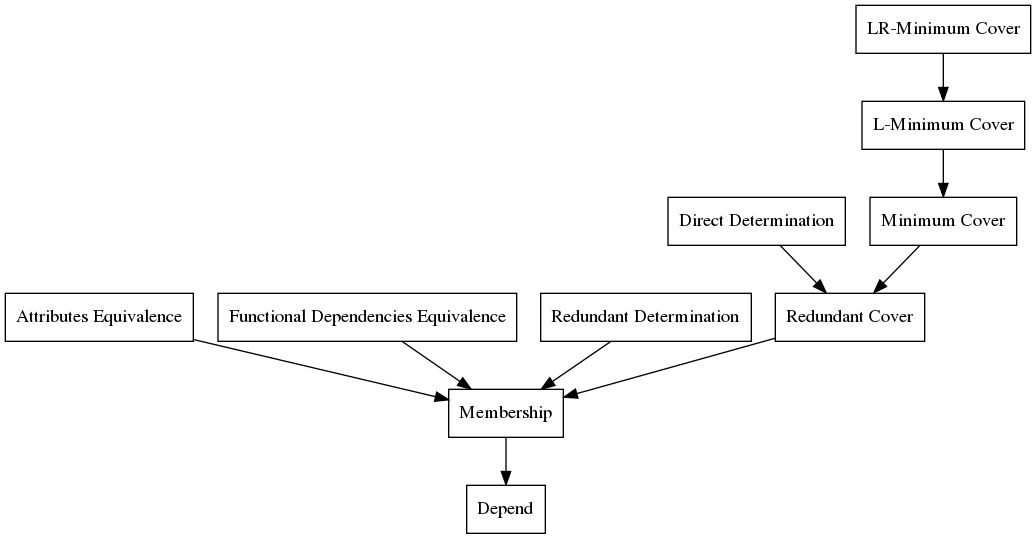
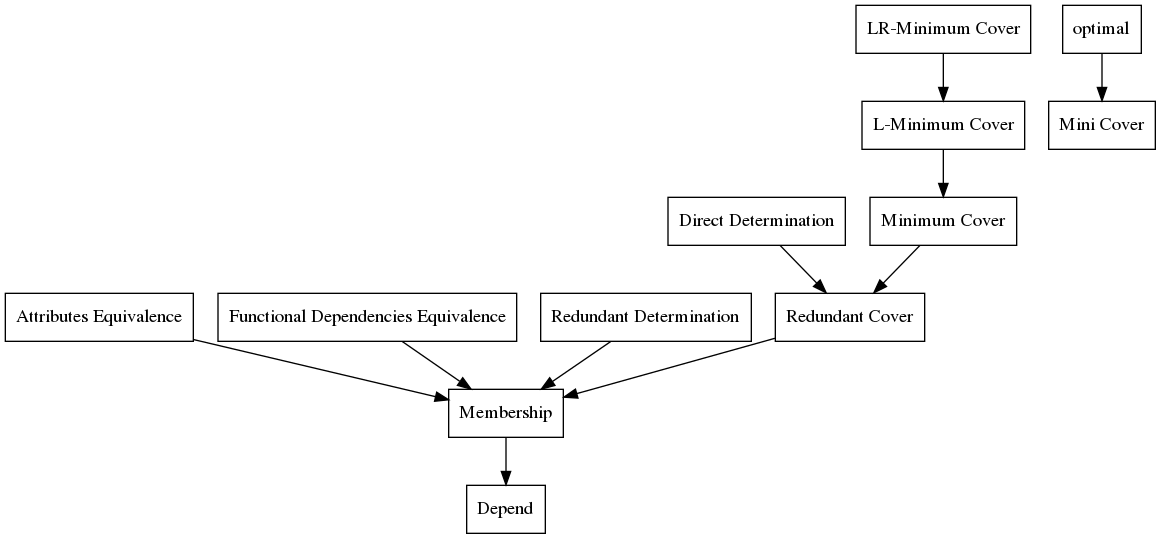
Edit some diagrams.

diff --git a/docs/fdc_8h_source.html b/docs/fdc_8h_source.html
@@ -99,7 +99,7 @@ $(document).ready(function(){initNavTree('fdc_8h_source.html','');});
 <div class="title">fdc.h</div>  </div>
 </div><!--header-->
 <div class="contents">
-<div class="fragment"><div class="line"><a name="l00001"></a><span class="lineno">    1</span>&#160;<span class="preprocessor">#include &lt;iostream&gt;</span></div><div class="line"><a name="l00002"></a><span class="lineno">    2</span>&#160;<span class="preprocessor">#include &lt;vector&gt;</span></div><div class="line"><a name="l00003"></a><span class="lineno">    3</span>&#160;</div><div class="line"><a name="l00004"></a><span class="lineno">    4</span>&#160;<span class="preprocessor">#ifndef __fdc_inc__</span></div><div class="line"><a name="l00005"></a><span class="lineno">    5</span>&#160;<span class="preprocessor">#define __fdc_inc__</span></div><div class="line"><a name="l00006"></a><span class="lineno">    6</span>&#160;</div><div class="line"><a name="l00007"></a><span class="lineno">    7</span>&#160;<span class="preprocessor">#define FDC_VERSION_MAJOR @FDC_VERSION_MAJOR @</span></div><div class="line"><a name="l00008"></a><span class="lineno">    8</span>&#160;<span class="preprocessor">#define FDC_VERSION_MINOR @FDC_VERSION_MINOR @</span></div><div class="line"><a name="l00009"></a><span class="lineno">    9</span>&#160;<span class="preprocessor">#define FDC_VERSION_PATCH @FDC_VERSION_PATCH @</span></div><div class="line"><a name="l00010"></a><span class="lineno">   10</span>&#160;</div><div class="line"><a name="l00015"></a><span class="lineno"><a class="line" href="namespacefdc.html">   15</a></span>&#160;<span class="keyword">namespace </span><a class="code" href="namespacefdc.html">fdc</a> {</div><div class="line"><a name="l00016"></a><span class="lineno">   16</span>&#160;</div><div class="line"><a name="l00018"></a><span class="lineno"><a class="line" href="namespacefdc.html#ad6ffb546640a8e9f1fc2bccaf2e06202">   18</a></span>&#160;<span class="keyword">typedef</span> <span class="keywordtype">int</span> <a class="code" href="namespacefdc.html#ad6ffb546640a8e9f1fc2bccaf2e06202">attr</a>;</div><div class="line"><a name="l00019"></a><span class="lineno">   19</span>&#160;</div><div class="line"><a name="l00021"></a><span class="lineno"><a class="line" href="namespacefdc.html#acc22b152d9d30c9641120f81ba5b39c9">   21</a></span>&#160;<span class="keyword">typedef</span> std::vector&lt;attr&gt; <a class="code" href="namespacefdc.html#acc22b152d9d30c9641120f81ba5b39c9">attrs</a>;</div><div class="line"><a name="l00022"></a><span class="lineno">   22</span>&#160;</div><div class="line"><a name="l00024"></a><span class="lineno"><a class="line" href="namespacefdc.html#aa9a82a6ea5967445729ae71e5e8065a2">   24</a></span>&#160;<span class="keyword">typedef</span> std::pair&lt;attrs, attrs&gt; <a class="code" href="namespacefdc.html#aa9a82a6ea5967445729ae71e5e8065a2">fd</a>;</div><div class="line"><a name="l00025"></a><span class="lineno">   25</span>&#160;</div><div class="line"><a name="l00027"></a><span class="lineno"><a class="line" href="namespacefdc.html#aa48d6653a52613809e7f775598b0bbcc">   27</a></span>&#160;<span class="keyword">typedef</span> std::vector&lt;fd&gt; <a class="code" href="namespacefdc.html#aa48d6653a52613809e7f775598b0bbcc">fds</a>;</div><div class="line"><a name="l00028"></a><span class="lineno">   28</span>&#160;</div><div class="line"><a name="l00042"></a><span class="lineno">   42</span>&#160;std::string <a class="code" href="group__IO.html#gafe224a98bd98ea3cf26dff6bdc8f7392">to_str</a>(<span class="keyword">const</span> attr &amp;x);</div><div class="line"><a name="l00043"></a><span class="lineno">   43</span>&#160;</div><div class="line"><a name="l00048"></a><span class="lineno">   48</span>&#160;std::string <a class="code" href="group__IO.html#gafe224a98bd98ea3cf26dff6bdc8f7392">to_str</a>(<span class="keyword">const</span> attrs &amp;X);</div><div class="line"><a name="l00049"></a><span class="lineno">   49</span>&#160;</div><div class="line"><a name="l00054"></a><span class="lineno">   54</span>&#160;std::string <a class="code" href="group__IO.html#gafe224a98bd98ea3cf26dff6bdc8f7392">to_str</a>(<span class="keyword">const</span> fd &amp;f);</div><div class="line"><a name="l00055"></a><span class="lineno">   55</span>&#160;</div><div class="line"><a name="l00061"></a><span class="lineno">   61</span>&#160;std::string <a class="code" href="group__IO.html#gafe224a98bd98ea3cf26dff6bdc8f7392">to_str</a>(<span class="keyword">const</span> fds &amp;F);</div><div class="line"><a name="l00062"></a><span class="lineno">   62</span>&#160;</div><div class="line"><a name="l00082"></a><span class="lineno">   82</span>&#160;<span class="keywordtype">void</span> <a class="code" href="group__IO.html#gace7f87adbda7b15acda7b0f252e5cacb">from_json</a>(<span class="keyword">const</span> std::string input, <span class="keywordtype">int</span> &amp;N, fds &amp;F);</div><div class="line"><a name="l00083"></a><span class="lineno">   83</span>&#160;</div><div class="line"><a name="l00103"></a><span class="lineno">  103</span>&#160;<span class="keywordtype">void</span> <a class="code" href="group__IO.html#gace7f87adbda7b15acda7b0f252e5cacb">from_json</a>(std::istream &amp;input, <span class="keywordtype">int</span> &amp;N, fds &amp;F);</div><div class="line"><a name="l00104"></a><span class="lineno">  104</span>&#160;</div><div class="line"><a name="l00125"></a><span class="lineno">  125</span>&#160;<span class="keywordtype">void</span> <a class="code" href="group__IO.html#gab476d7a0934b1a5c9e5b24d91f63bd23">to_json</a>(std::ostream &amp;output, <span class="keyword">const</span> <span class="keywordtype">int</span> &amp;N, <span class="keyword">const</span> fds &amp;F);</div><div class="line"><a name="l00126"></a><span class="lineno">  126</span>&#160;</div><div class="line"><a name="l00206"></a><span class="lineno">  206</span>&#160;<span class="keywordtype">void</span> <a class="code" href="group__algorithms.html#ga02987d32ad8bec3488ae8a8f86086b4d">depend</a>(<span class="keyword">const</span> <span class="keywordtype">int</span> N, <span class="keyword">const</span> fds &amp;F, <span class="keyword">const</span> std::vector&lt;int&gt; X, <span class="keywordtype">bool</span> D[]);</div><div class="line"><a name="l00207"></a><span class="lineno">  207</span>&#160;</div><div class="line"><a name="l00223"></a><span class="lineno">  223</span>&#160;<span class="keywordtype">bool</span> <a class="code" href="group__algorithms.html#gaf3875762dfd1a9029c6ac00c24ddd8fb">is_membership</a>(<span class="keyword">const</span> <span class="keywordtype">int</span> N, <span class="keyword">const</span> fds &amp;F, <span class="keyword">const</span> fd &amp;f);</div><div class="line"><a name="l00224"></a><span class="lineno">  224</span>&#160;</div><div class="line"><a name="l00240"></a><span class="lineno">  240</span>&#160;<span class="keywordtype">bool</span> <a class="code" href="group__algorithms.html#gacec87e7f9a1945132d41dd6109200f15">equal</a>(<span class="keyword">const</span> <span class="keywordtype">int</span> N, <span class="keyword">const</span> fds &amp;F, <span class="keyword">const</span> attrs &amp;X, <span class="keyword">const</span> attrs &amp;Y);</div><div class="line"><a name="l00241"></a><span class="lineno">  241</span>&#160;</div><div class="line"><a name="l00251"></a><span class="lineno">  251</span>&#160;<span class="keywordtype">bool</span> <a class="code" href="group__algorithms.html#gacec87e7f9a1945132d41dd6109200f15">equal</a>(<span class="keyword">const</span> <span class="keywordtype">int</span> N, <span class="keyword">const</span> fds &amp;F, <span class="keyword">const</span> fds &amp;G);</div><div class="line"><a name="l00252"></a><span class="lineno">  252</span>&#160;</div><div class="line"><a name="l00269"></a><span class="lineno">  269</span>&#160;<span class="keywordtype">bool</span> <a class="code" href="group__algorithms.html#ga80983183955c8ec5a387980206976ecf">is_redundant</a>(<span class="keyword">const</span> <span class="keywordtype">int</span> N, <span class="keyword">const</span> fds &amp;F);</div><div class="line"><a name="l00270"></a><span class="lineno">  270</span>&#160;</div><div class="line"><a name="l00288"></a><span class="lineno">  288</span>&#160;fds <a class="code" href="group__algorithms.html#gac9021e04da8e9bcba926a7d000724712">non_redundant</a>(<span class="keyword">const</span> <span class="keywordtype">int</span> N, <span class="keyword">const</span> fds &amp;F);</div><div class="line"><a name="l00289"></a><span class="lineno">  289</span>&#160;</div><div class="line"><a name="l00310"></a><span class="lineno">  310</span>&#160;<span class="keywordtype">bool</span> <a class="code" href="group__algorithms.html#ga629b492a2bc73251ef441daf107aa32e">is_canonical</a>(<span class="keyword">const</span> <span class="keywordtype">int</span> N, <span class="keyword">const</span> fds &amp;F);</div><div class="line"><a name="l00311"></a><span class="lineno">  311</span>&#160;</div><div class="line"><a name="l00330"></a><span class="lineno">  330</span>&#160;fds <a class="code" href="group__algorithms.html#ga87145f95efd3421f4280493dc203c56a">canonical</a>(<span class="keyword">const</span> <span class="keywordtype">int</span> N, <span class="keyword">const</span> fds &amp;F);</div><div class="line"><a name="l00331"></a><span class="lineno">  331</span>&#160;</div><div class="line"><a name="l00347"></a><span class="lineno">  347</span>&#160;<span class="keywordtype">bool</span> <a class="code" href="group__algorithms.html#ga5e9ad80acf84ba8db47e9b93a518fb83">is_direct</a>(<span class="keyword">const</span> <span class="keywordtype">int</span> N, <span class="keyword">const</span> fds &amp;F, <span class="keyword">const</span> fd &amp;f);</div><div class="line"><a name="l00348"></a><span class="lineno">  348</span>&#160;</div><div class="line"><a name="l00365"></a><span class="lineno">  365</span>&#160;fds <a class="code" href="group__algorithms.html#gab63892073a1fefd2c7eeff939afaa645">minimum</a>(<span class="keyword">const</span> <span class="keywordtype">int</span> N, <span class="keyword">const</span> fds &amp;F);</div><div class="line"><a name="l00366"></a><span class="lineno">  366</span>&#160;</div><div class="line"><a name="l00381"></a><span class="lineno">  381</span>&#160;<span class="keywordtype">bool</span> <a class="code" href="group__algorithms.html#ga524d6230f67fa9b47e897ffac9d5aa81">is_minimum</a>(<span class="keyword">const</span> <span class="keywordtype">int</span> N, <span class="keyword">const</span> fds &amp;F);</div><div class="line"><a name="l00382"></a><span class="lineno">  382</span>&#160;</div><div class="line"><a name="l00399"></a><span class="lineno">  399</span>&#160;<span class="keywordtype">bool</span> <a class="code" href="group__algorithms.html#gad891954554bf7582c4432f55c63461ac">is_lminimum</a>(<span class="keyword">const</span> <span class="keywordtype">int</span> N, <span class="keyword">const</span> fds &amp;F);</div><div class="line"><a name="l00400"></a><span class="lineno">  400</span>&#160;</div><div class="line"><a name="l00419"></a><span class="lineno">  419</span>&#160;fds <a class="code" href="group__algorithms.html#ga3552c3b760d686831ca45988d99f240e">lminimum</a>(<span class="keyword">const</span> <span class="keywordtype">int</span> N, <span class="keyword">const</span> fds &amp;F);</div><div class="line"><a name="l00420"></a><span class="lineno">  420</span>&#160;</div><div class="line"><a name="l00440"></a><span class="lineno">  440</span>&#160;<span class="keywordtype">bool</span> <a class="code" href="group__algorithms.html#ga3666e257f63ccceea357d0260d19f40c">is_lrminimum</a>(<span class="keyword">const</span> <span class="keywordtype">int</span> N, <span class="keyword">const</span> fds &amp;F);</div><div class="line"><a name="l00441"></a><span class="lineno">  441</span>&#160;</div><div class="line"><a name="l00463"></a><span class="lineno">  463</span>&#160;fds <a class="code" href="group__algorithms.html#ga995574caa368b1d1d0b21aea36bd3f5e">lrminimum</a>(<span class="keyword">const</span> <span class="keywordtype">int</span> N, <span class="keyword">const</span> fds &amp;F);</div><div class="line"><a name="l00464"></a><span class="lineno">  464</span>&#160;</div><div class="line"><a name="l00481"></a><span class="lineno">  481</span>&#160;<span class="keywordtype">bool</span> <a class="code" href="group__algorithms.html#ga54a91a08d929dfd415d459f22c602330">is_mini</a>(<span class="keyword">const</span> <span class="keywordtype">int</span> N, <span class="keyword">const</span> fds &amp;F);</div><div class="line"><a name="l00482"></a><span class="lineno">  482</span>&#160;</div><div class="line"><a name="l00500"></a><span class="lineno">  500</span>&#160;fds <a class="code" href="group__algorithms.html#ga921b955e425f8577e3334582e0d55aaa">mini</a>(<span class="keyword">const</span> <span class="keywordtype">int</span> N, <span class="keyword">const</span> fds &amp;F);</div><div class="line"><a name="l00501"></a><span class="lineno">  501</span>&#160;</div><div class="line"><a name="l00503"></a><span class="lineno">  503</span>&#160;} <span class="comment">// namespace fdc</span></div><div class="line"><a name="l00504"></a><span class="lineno">  504</span>&#160;<span class="preprocessor">#endif</span></div><div class="ttc" id="group__algorithms_html_ga80983183955c8ec5a387980206976ecf"><div class="ttname"><a href="group__algorithms.html#ga80983183955c8ec5a387980206976ecf">fdc::is_redundant</a></div><div class="ttdeci">bool is_redundant(const int N, const fds &amp;F)</div><div class="ttdoc">Redundant determination. </div></div>
+<div class="fragment"><div class="line"><a name="l00001"></a><span class="lineno">    1</span>&#160;<span class="preprocessor">#include &lt;iostream&gt;</span></div><div class="line"><a name="l00002"></a><span class="lineno">    2</span>&#160;<span class="preprocessor">#include &lt;vector&gt;</span></div><div class="line"><a name="l00003"></a><span class="lineno">    3</span>&#160;</div><div class="line"><a name="l00004"></a><span class="lineno">    4</span>&#160;<span class="preprocessor">#ifndef __fdc_inc__</span></div><div class="line"><a name="l00005"></a><span class="lineno">    5</span>&#160;<span class="preprocessor">#define __fdc_inc__</span></div><div class="line"><a name="l00006"></a><span class="lineno">    6</span>&#160;</div><div class="line"><a name="l00007"></a><span class="lineno">    7</span>&#160;<span class="preprocessor">#define FDC_VERSION_MAJOR @FDC_VERSION_MAJOR @</span></div><div class="line"><a name="l00008"></a><span class="lineno">    8</span>&#160;<span class="preprocessor">#define FDC_VERSION_MINOR @FDC_VERSION_MINOR @</span></div><div class="line"><a name="l00009"></a><span class="lineno">    9</span>&#160;<span class="preprocessor">#define FDC_VERSION_PATCH @FDC_VERSION_PATCH @</span></div><div class="line"><a name="l00010"></a><span class="lineno">   10</span>&#160;</div><div class="line"><a name="l00015"></a><span class="lineno"><a class="line" href="namespacefdc.html">   15</a></span>&#160;<span class="keyword">namespace </span><a class="code" href="namespacefdc.html">fdc</a> {</div><div class="line"><a name="l00016"></a><span class="lineno">   16</span>&#160;</div><div class="line"><a name="l00018"></a><span class="lineno"><a class="line" href="namespacefdc.html#ad6ffb546640a8e9f1fc2bccaf2e06202">   18</a></span>&#160;<span class="keyword">typedef</span> <span class="keywordtype">int</span> <a class="code" href="namespacefdc.html#ad6ffb546640a8e9f1fc2bccaf2e06202">attr</a>;</div><div class="line"><a name="l00019"></a><span class="lineno">   19</span>&#160;</div><div class="line"><a name="l00021"></a><span class="lineno"><a class="line" href="namespacefdc.html#acc22b152d9d30c9641120f81ba5b39c9">   21</a></span>&#160;<span class="keyword">typedef</span> std::vector&lt;attr&gt; <a class="code" href="namespacefdc.html#acc22b152d9d30c9641120f81ba5b39c9">attrs</a>;</div><div class="line"><a name="l00022"></a><span class="lineno">   22</span>&#160;</div><div class="line"><a name="l00024"></a><span class="lineno"><a class="line" href="namespacefdc.html#aa9a82a6ea5967445729ae71e5e8065a2">   24</a></span>&#160;<span class="keyword">typedef</span> std::pair&lt;attrs, attrs&gt; <a class="code" href="namespacefdc.html#aa9a82a6ea5967445729ae71e5e8065a2">fd</a>;</div><div class="line"><a name="l00025"></a><span class="lineno">   25</span>&#160;</div><div class="line"><a name="l00027"></a><span class="lineno"><a class="line" href="namespacefdc.html#aa48d6653a52613809e7f775598b0bbcc">   27</a></span>&#160;<span class="keyword">typedef</span> std::vector&lt;fd&gt; <a class="code" href="namespacefdc.html#aa48d6653a52613809e7f775598b0bbcc">fds</a>;</div><div class="line"><a name="l00028"></a><span class="lineno">   28</span>&#160;</div><div class="line"><a name="l00042"></a><span class="lineno">   42</span>&#160;std::string <a class="code" href="group__IO.html#gafe224a98bd98ea3cf26dff6bdc8f7392">to_str</a>(<span class="keyword">const</span> attr &amp;x);</div><div class="line"><a name="l00043"></a><span class="lineno">   43</span>&#160;</div><div class="line"><a name="l00048"></a><span class="lineno">   48</span>&#160;std::string <a class="code" href="group__IO.html#gafe224a98bd98ea3cf26dff6bdc8f7392">to_str</a>(<span class="keyword">const</span> attrs &amp;X);</div><div class="line"><a name="l00049"></a><span class="lineno">   49</span>&#160;</div><div class="line"><a name="l00054"></a><span class="lineno">   54</span>&#160;std::string <a class="code" href="group__IO.html#gafe224a98bd98ea3cf26dff6bdc8f7392">to_str</a>(<span class="keyword">const</span> fd &amp;f);</div><div class="line"><a name="l00055"></a><span class="lineno">   55</span>&#160;</div><div class="line"><a name="l00061"></a><span class="lineno">   61</span>&#160;std::string <a class="code" href="group__IO.html#gafe224a98bd98ea3cf26dff6bdc8f7392">to_str</a>(<span class="keyword">const</span> fds &amp;F);</div><div class="line"><a name="l00062"></a><span class="lineno">   62</span>&#160;</div><div class="line"><a name="l00082"></a><span class="lineno">   82</span>&#160;<span class="keywordtype">void</span> <a class="code" href="group__IO.html#gace7f87adbda7b15acda7b0f252e5cacb">from_json</a>(<span class="keyword">const</span> std::string input, <span class="keywordtype">int</span> &amp;N, fds &amp;F);</div><div class="line"><a name="l00083"></a><span class="lineno">   83</span>&#160;</div><div class="line"><a name="l00103"></a><span class="lineno">  103</span>&#160;<span class="keywordtype">void</span> <a class="code" href="group__IO.html#gace7f87adbda7b15acda7b0f252e5cacb">from_json</a>(std::istream &amp;input, <span class="keywordtype">int</span> &amp;N, fds &amp;F);</div><div class="line"><a name="l00104"></a><span class="lineno">  104</span>&#160;</div><div class="line"><a name="l00125"></a><span class="lineno">  125</span>&#160;<span class="keywordtype">void</span> <a class="code" href="group__IO.html#gab476d7a0934b1a5c9e5b24d91f63bd23">to_json</a>(std::ostream &amp;output, <span class="keyword">const</span> <span class="keywordtype">int</span> &amp;N, <span class="keyword">const</span> fds &amp;F);</div><div class="line"><a name="l00126"></a><span class="lineno">  126</span>&#160;</div><div class="line"><a name="l00211"></a><span class="lineno">  211</span>&#160;<span class="keywordtype">void</span> <a class="code" href="group__algorithms.html#ga02987d32ad8bec3488ae8a8f86086b4d">depend</a>(<span class="keyword">const</span> <span class="keywordtype">int</span> N, <span class="keyword">const</span> fds &amp;F, <span class="keyword">const</span> std::vector&lt;int&gt; X, <span class="keywordtype">bool</span> D[]);</div><div class="line"><a name="l00212"></a><span class="lineno">  212</span>&#160;</div><div class="line"><a name="l00228"></a><span class="lineno">  228</span>&#160;<span class="keywordtype">bool</span> <a class="code" href="group__algorithms.html#gaf3875762dfd1a9029c6ac00c24ddd8fb">is_membership</a>(<span class="keyword">const</span> <span class="keywordtype">int</span> N, <span class="keyword">const</span> fds &amp;F, <span class="keyword">const</span> fd &amp;f);</div><div class="line"><a name="l00229"></a><span class="lineno">  229</span>&#160;</div><div class="line"><a name="l00245"></a><span class="lineno">  245</span>&#160;<span class="keywordtype">bool</span> <a class="code" href="group__algorithms.html#gacec87e7f9a1945132d41dd6109200f15">equal</a>(<span class="keyword">const</span> <span class="keywordtype">int</span> N, <span class="keyword">const</span> fds &amp;F, <span class="keyword">const</span> attrs &amp;X, <span class="keyword">const</span> attrs &amp;Y);</div><div class="line"><a name="l00246"></a><span class="lineno">  246</span>&#160;</div><div class="line"><a name="l00256"></a><span class="lineno">  256</span>&#160;<span class="keywordtype">bool</span> <a class="code" href="group__algorithms.html#gacec87e7f9a1945132d41dd6109200f15">equal</a>(<span class="keyword">const</span> <span class="keywordtype">int</span> N, <span class="keyword">const</span> fds &amp;F, <span class="keyword">const</span> fds &amp;G);</div><div class="line"><a name="l00257"></a><span class="lineno">  257</span>&#160;</div><div class="line"><a name="l00274"></a><span class="lineno">  274</span>&#160;<span class="keywordtype">bool</span> <a class="code" href="group__algorithms.html#ga80983183955c8ec5a387980206976ecf">is_redundant</a>(<span class="keyword">const</span> <span class="keywordtype">int</span> N, <span class="keyword">const</span> fds &amp;F);</div><div class="line"><a name="l00275"></a><span class="lineno">  275</span>&#160;</div><div class="line"><a name="l00293"></a><span class="lineno">  293</span>&#160;fds <a class="code" href="group__algorithms.html#gac9021e04da8e9bcba926a7d000724712">non_redundant</a>(<span class="keyword">const</span> <span class="keywordtype">int</span> N, <span class="keyword">const</span> fds &amp;F);</div><div class="line"><a name="l00294"></a><span class="lineno">  294</span>&#160;</div><div class="line"><a name="l00315"></a><span class="lineno">  315</span>&#160;<span class="keywordtype">bool</span> <a class="code" href="group__algorithms.html#ga629b492a2bc73251ef441daf107aa32e">is_canonical</a>(<span class="keyword">const</span> <span class="keywordtype">int</span> N, <span class="keyword">const</span> fds &amp;F);</div><div class="line"><a name="l00316"></a><span class="lineno">  316</span>&#160;</div><div class="line"><a name="l00335"></a><span class="lineno">  335</span>&#160;fds <a class="code" href="group__algorithms.html#ga87145f95efd3421f4280493dc203c56a">canonical</a>(<span class="keyword">const</span> <span class="keywordtype">int</span> N, <span class="keyword">const</span> fds &amp;F);</div><div class="line"><a name="l00336"></a><span class="lineno">  336</span>&#160;</div><div class="line"><a name="l00352"></a><span class="lineno">  352</span>&#160;<span class="keywordtype">bool</span> <a class="code" href="group__algorithms.html#ga5e9ad80acf84ba8db47e9b93a518fb83">is_direct</a>(<span class="keyword">const</span> <span class="keywordtype">int</span> N, <span class="keyword">const</span> fds &amp;F, <span class="keyword">const</span> fd &amp;f);</div><div class="line"><a name="l00353"></a><span class="lineno">  353</span>&#160;</div><div class="line"><a name="l00370"></a><span class="lineno">  370</span>&#160;fds <a class="code" href="group__algorithms.html#gab63892073a1fefd2c7eeff939afaa645">minimum</a>(<span class="keyword">const</span> <span class="keywordtype">int</span> N, <span class="keyword">const</span> fds &amp;F);</div><div class="line"><a name="l00371"></a><span class="lineno">  371</span>&#160;</div><div class="line"><a name="l00386"></a><span class="lineno">  386</span>&#160;<span class="keywordtype">bool</span> <a class="code" href="group__algorithms.html#ga524d6230f67fa9b47e897ffac9d5aa81">is_minimum</a>(<span class="keyword">const</span> <span class="keywordtype">int</span> N, <span class="keyword">const</span> fds &amp;F);</div><div class="line"><a name="l00387"></a><span class="lineno">  387</span>&#160;</div><div class="line"><a name="l00404"></a><span class="lineno">  404</span>&#160;<span class="keywordtype">bool</span> <a class="code" href="group__algorithms.html#gad891954554bf7582c4432f55c63461ac">is_lminimum</a>(<span class="keyword">const</span> <span class="keywordtype">int</span> N, <span class="keyword">const</span> fds &amp;F);</div><div class="line"><a name="l00405"></a><span class="lineno">  405</span>&#160;</div><div class="line"><a name="l00424"></a><span class="lineno">  424</span>&#160;fds <a class="code" href="group__algorithms.html#ga3552c3b760d686831ca45988d99f240e">lminimum</a>(<span class="keyword">const</span> <span class="keywordtype">int</span> N, <span class="keyword">const</span> fds &amp;F);</div><div class="line"><a name="l00425"></a><span class="lineno">  425</span>&#160;</div><div class="line"><a name="l00445"></a><span class="lineno">  445</span>&#160;<span class="keywordtype">bool</span> <a class="code" href="group__algorithms.html#ga3666e257f63ccceea357d0260d19f40c">is_lrminimum</a>(<span class="keyword">const</span> <span class="keywordtype">int</span> N, <span class="keyword">const</span> fds &amp;F);</div><div class="line"><a name="l00446"></a><span class="lineno">  446</span>&#160;</div><div class="line"><a name="l00468"></a><span class="lineno">  468</span>&#160;fds <a class="code" href="group__algorithms.html#ga995574caa368b1d1d0b21aea36bd3f5e">lrminimum</a>(<span class="keyword">const</span> <span class="keywordtype">int</span> N, <span class="keyword">const</span> fds &amp;F);</div><div class="line"><a name="l00469"></a><span class="lineno">  469</span>&#160;</div><div class="line"><a name="l00486"></a><span class="lineno">  486</span>&#160;<span class="keywordtype">bool</span> <a class="code" href="group__algorithms.html#ga54a91a08d929dfd415d459f22c602330">is_mini</a>(<span class="keyword">const</span> <span class="keywordtype">int</span> N, <span class="keyword">const</span> fds &amp;F);</div><div class="line"><a name="l00487"></a><span class="lineno">  487</span>&#160;</div><div class="line"><a name="l00505"></a><span class="lineno">  505</span>&#160;fds <a class="code" href="group__algorithms.html#ga921b955e425f8577e3334582e0d55aaa">mini</a>(<span class="keyword">const</span> <span class="keywordtype">int</span> N, <span class="keyword">const</span> fds &amp;F);</div><div class="line"><a name="l00506"></a><span class="lineno">  506</span>&#160;</div><div class="line"><a name="l00508"></a><span class="lineno">  508</span>&#160;} <span class="comment">// namespace fdc</span></div><div class="line"><a name="l00509"></a><span class="lineno">  509</span>&#160;<span class="preprocessor">#endif</span></div><div class="ttc" id="group__algorithms_html_ga80983183955c8ec5a387980206976ecf"><div class="ttname"><a href="group__algorithms.html#ga80983183955c8ec5a387980206976ecf">fdc::is_redundant</a></div><div class="ttdeci">bool is_redundant(const int N, const fds &amp;F)</div><div class="ttdoc">Redundant determination. </div></div>
 <div class="ttc" id="group__algorithms_html_ga524d6230f67fa9b47e897ffac9d5aa81"><div class="ttname"><a href="group__algorithms.html#ga524d6230f67fa9b47e897ffac9d5aa81">fdc::is_minimum</a></div><div class="ttdeci">bool is_minimum(const int N, const fds &amp;F)</div><div class="ttdoc">Minimum determination. </div></div>
 <div class="ttc" id="group__algorithms_html_gac9021e04da8e9bcba926a7d000724712"><div class="ttname"><a href="group__algorithms.html#gac9021e04da8e9bcba926a7d000724712">fdc::non_redundant</a></div><div class="ttdeci">fds non_redundant(const int N, const fds &amp;F)</div><div class="ttdoc">Redundant cover calculation. </div></div>
 <div class="ttc" id="group__algorithms_html_gacec87e7f9a1945132d41dd6109200f15"><div class="ttname"><a href="group__algorithms.html#gacec87e7f9a1945132d41dd6109200f15">fdc::equal</a></div><div class="ttdeci">bool equal(const int N, const fds &amp;F, const attrs &amp;X, const attrs &amp;Y)</div><div class="ttdoc">Sets of attributes equivalence determination. </div></div>

diff --git a/src/fdc/fdc.h b/src/fdc/fdc.h
@@ -145,6 +145,7 @@ void to_json(std::ostream &output, const int &N, const fds &F);
  *     minimum[label = "Minimum Cover"]
  *     l_minimum[label = "L-Minimum Cover"]
  *     lr_minimum[label = "LR-Minimum Cover"]
+ *     mini[label = "Mini Cover"]
  *
  *     is_membership -> depend
  *     equal_attrs -> is_membership
@@ -155,6 +156,7 @@ void to_json(std::ostream &output, const int &N, const fds &F);
  *     minimum -> non_redundant
  *     l_minimum -> minimum
  *     lr_minimum -> l_minimum
+ *     optimal -> mini
  *   }
  * \enddot
  *
@@ -172,12 +174,15 @@ void to_json(std::ostream &output, const int &N, const fds &F);
  *     l_minimum[label = "L-Minimum"]
  *     lr_minimum[label = "LR-Minimum"]
  *     optical[label = "Optical"]
+ *     mini[label = "Mini"]
  *
  *     canonical -> non_redundant
  *     minimum -> non_redundant
+ *     mini -> canonical
  *     l_minimum -> minimum
  *     lr_minimum -> l_minimum
  *     optical -> lr_minimum
+ *     optical -> mini
  *   }
  * \enddot
  *
